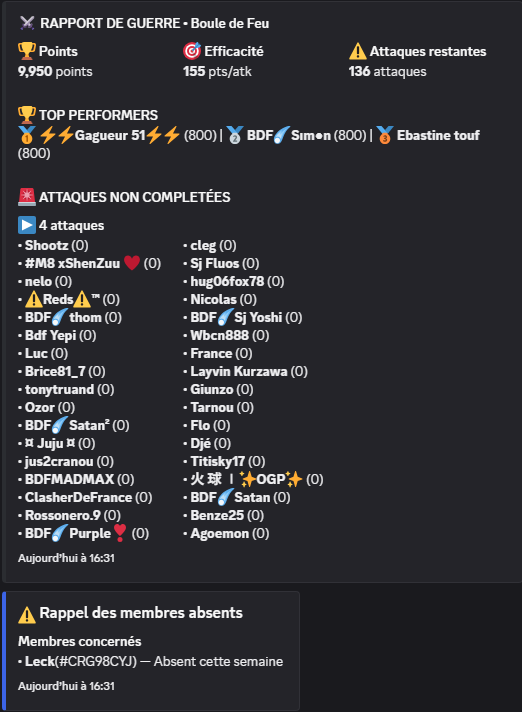
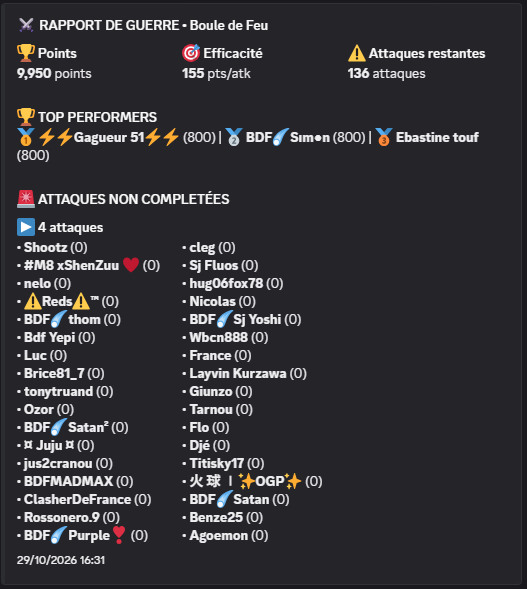
fix: discord titles

Changed region(s): [[0.0, 0.0, 0.9502, 1.0]]

diff --git a/discord/DiscordMessage.js b/discord/DiscordMessage.js
@@ -145,7 +145,9 @@ class DiscordMessage {
         .sort((a, b) => b.fame - a.fame); // Tri décroissant
 
       const embedLow = new EmbedBuilder()
-        .setTitle("📉 RAPPORT DE GUERRE HEBDOMADAIRE (Avertissements)")
+        .setAuthor({
+          name: "📉 RAPPORT DE GUERRE HEBDOMADAIRE (Avertissements)",
+        })
         .setColor("#e74c3c")
         // On met toute la logique directement dans la description
         .setDescription(
@@ -166,7 +168,9 @@ class DiscordMessage {
         .sort((a, b) => b.fame - a.fame); // Tri décroissant (les plus gros scores en haut)
 
       const embedHigh = new EmbedBuilder()
-        .setTitle("🆙 PROMOTIONS RECOMMANDÉES ")
+        .setAuthor({
+          name: "🆙 PROMOTIONS RECOMMANDÉES ",
+        })
         .setColor("#2ecc71") // Vert
         // On fusionne le texte d'intro et la liste dynamique dans la description
         .setDescription(
@@ -200,7 +204,9 @@ class DiscordMessage {
   async recapAbsents(messages, discordChannelId) {
     try {
       const embedAbsents = new EmbedBuilder()
-        .setTitle("⚠ RAPPEL DES MEMBRES ABSENTS")
+        .setAuthor({
+          name: "⚠ RAPPEL DES MEMBRES ABSENTS",
+        })
         .setColor("#3c64e7")
         // .setDescription("Joueurs")
         .addFields({
